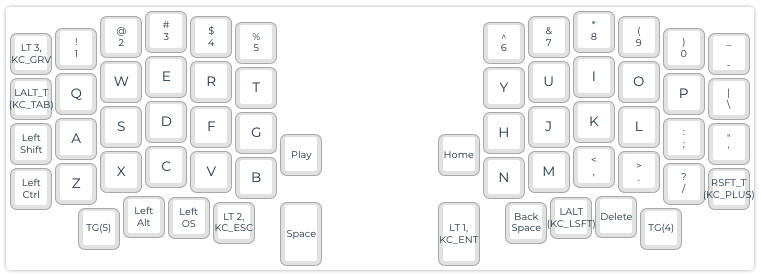
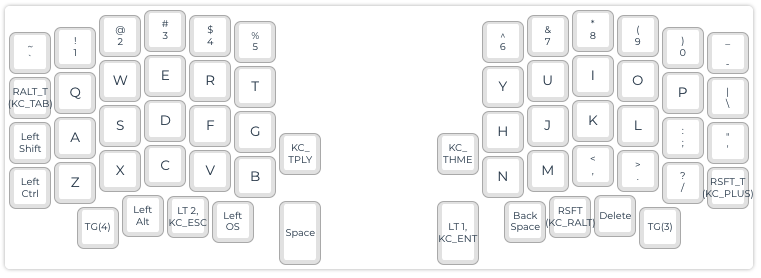
fix(syms): Bracket idea, update

diff --git a/README.md b/README.md
@@ -18,7 +18,7 @@ ortholinear, or QMK, or really even C++.
 
 In the end, though, I'm **VERY** pleased with how things turned out!
 
-![Sofle V2 with tan keycaps featuring standard alpha numerics and assorted novelty keys](https://lh3.googleusercontent.com/pw/AM-JKLVr-XJRkMWg79y4RWsEhTycdLUstjloWZONWSj9at_w_N3zI0L1dtLOyxpfbjQnUZdlfp2QZRNzWEg_KquBZtGhaq5TsABN5fU--JM3NCtFjM0es59A7AL1kjqVtX3ZoyTwLahqcwOi3ASsf3rVCko2zA=w3584-h1744-no?authuser=0)
+![Sofle V2 with tan keycaps featuring standard alpha numerics and assorted novelty keys](images/glam.jpg)
 [Key caps from kbdfans](https://kbdfans.com/products/pbt-sa-control-code-keycaps-set)
 
 After receiving them I found that they don't have a homing mark on `F` and `J`. After looking
@@ -91,16 +91,10 @@ Only slightly-odd key on the bottom is the `Alt+Shift` key, which is my "Meta" k
 This has ended up being my most useful layer. The Green keys are a fantastic stand-in for when I
 just need a quick thing done with the mouse (webpage that doesn't support
 [Vimium](https://vimium.github.io/), for example), the blue keys are VIM keys for things that need
-arrows, and the yellow keys are part of an overall "brackets" concept for coding where:
+arrows.
 
-| Combo | `,`/`.` |
-|-------|-----|
-| Shift | `<`/`>` |
-| Mouse | `[`/`]` |
-| Shift + Mouse | `{`/`}` |
-| Esc | `(`/`)` |
-
-It hasn't really sunk in yet, though, so I'm considering it a work in progress.
+VIM uses `CTRL+W` as a prefix for a lot of graphical operations, and tmux `ALT+A`, so throwing these
+in to see how I like them on row 1.
 
 Lastly, my KVM switch is triggered by Ctrl+Ctrl+[`1`/`2`], so the two macro keys on the right take
 care of that.
@@ -109,31 +103,37 @@ care of that.
 
 ![Layer2](images/layer_2_syms.png)
 
-VIM uses `CTRL+W` as a prefix for a lot of graphical operations, and tmux `ALT+A`, so throwing these
-in to see how I like them.
+The original idea for this layer was inspired by [tomsaleeba/ergoslab](https://github.com/tomsaleeba/ergoslab)'s bracket layer, but my brain just couldn't get it to stick...
 
-The bottom left macros are similar. where `,`+`\\n` is VIM full screen, and `ALT+A`+`\\n` is tmux
-full screen.
+Until I added the bottom layer on the left. Now making Markdown links is:
 
-### 3 (Media)
+```
+ESC+k
+Name of link
+ESC+ l i v o
+```
+`l` puts in the ], `i` does (, `v` pastes the URL, then `o` closes the ). Magic.
 
-![Layer3](images/layer_3_mdia.png)
+The FN keys are because they didn't have anywhere else to live after the most recent redesign.
 
-Nothing special, and pretty useless for now.
+### 3 (FFXIV)
 
+![Layer3](images/layer_3_ffxiv.png)
 
-### 4 (NumPad)
+Basically disables some of the keys that are bad for gaming (Tab/Alt Tap, Esc/Sym) and adds printsc.
 
-![Layer4](images/layer_4_npad.png)
+I could probably simplify this to a flag eventually...
 
-Haven't used this layer yet, but logically I should probably flip the sides around... we'll see.
+### 4 (Gamez)
 
-### 5 (Gamez)
+![Layer4](images/layer_4_esdf.png)
 
-![Layer5](images/layer_5_game.png)
+Ortholinear WASD is even weirder than normal, so shifting the keys to the right was a necessity.
 
-Ortholinear WASD is even weirder than normal, so shifting the keys to the right was a necessity. I
-thought that keeping my hands in the same position would also help when flipping between Game/Base to type, but I'm terrible at it anyway. Additionally, the right-half as action hot-keys (where I don't have to unmap the default UI shortcuts or whatever) is rough. Entire thing is a WIP.
+After playing for a while, I realized shifting the top and bottom rows were unnecessary and
+confusing. Additionally, the left-side is sorta a passive hotkey system; by default games don't
+acknowledge the CTRL key is pressed, so the key just registers as the alpha, but if you're setting a
+custom mapping, it'll see it and you'll have a new hotkey.
 
 ## Observations
 
@@ -161,3 +161,5 @@ keys for too long. I do wish I could flash both keyboards without having to play
 cords, but ¯\\_(ツ)\_\/¯.
 
 And good goat do my back and neck feel better already. Like, **__WAY__** better.
+
+// Dev note: regex for firmware->configurator:'<,'>s%\v([^, ]+)%"\1"%g
